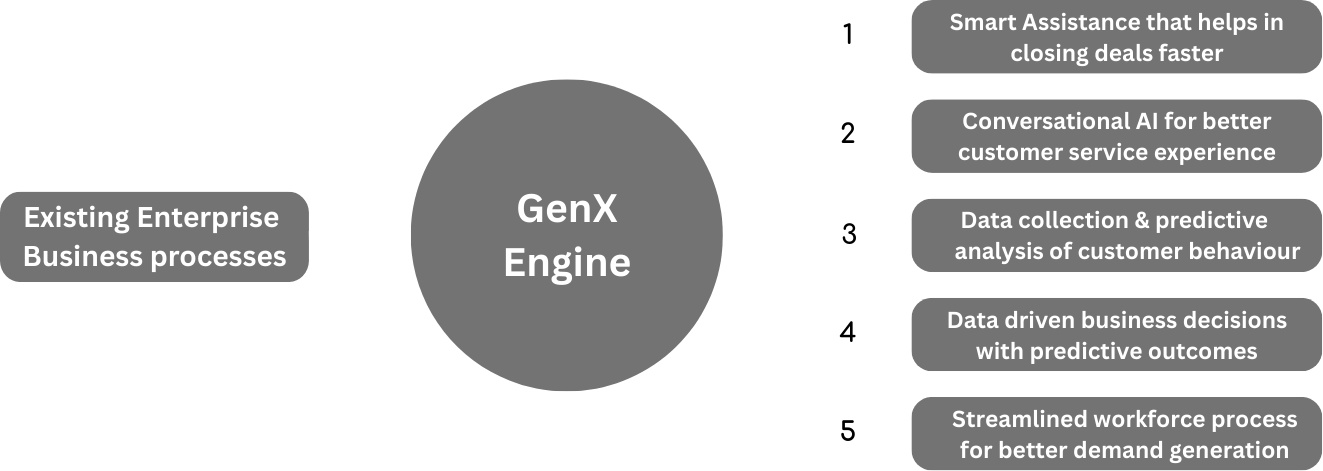
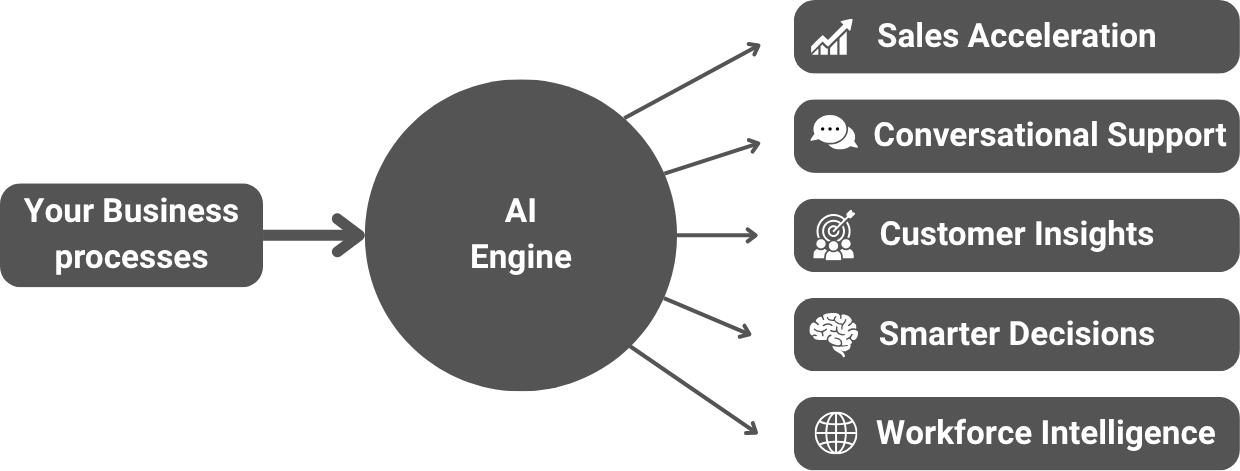
Footer and other changes

diff --git a/index.html b/index.html
@@ -58,40 +58,21 @@
     <main class="p-6">
         <!-- Hero Section -->
         <section class="hero-section-card">
-            <div class="hero-flex-wrapper flex flex-col md:flex-row items-center justify-between h-full w-full gap-8">
-                <div class="hero-content flex-1 flex flex-col items-end justify-center text-right w-full md:w-1/2">
+            <div class="hero-flex-wrapper flex flex-col md:flex-row items-center justify-center h-full w-full gap-8 mt-24">
+                <div class="hero-content flex-1 flex flex-col items-center justify-center text-center w-full md:w-1/2">
                     <h2 class="text-4xl font-bold text-hover-effect mb-4">
                         Accelerating AI Journey
                     </h2>
                     <p class="text-lg text-hover-effect mb-6">
                         Fine-tune, deploy, and monitor LLMs for custom AI workflows.
                     </p>
-                    <div class="flex flex-col sm:flex-row gap-4 w-full justify-end items-end">
-                        <!-- <a href="#features" class="bg-blue-600 text-white px-6 py-3 rounded-lg shadow hover:bg-blue-700 text-center">
-                            Explore Features
-                        </a> -->
-                        <!-- <a href="#cta" class="bg-gray-800 text-white px-6 py-3 rounded-lg shadow hover:bg-gray-900 text-center">
-                            Early Access
-                        </a> -->
+                    <div class="flex flex-col sm:flex-row gap-4 w-full justify-center items-center">
                         <a href="#features" class="bg-blue-700 text-white px-6 py-3 rounded-lg shadow hover:bg-blue-900">
                             Explore Features
                         </a>
                         <a href="#cta" class="ml-4 bg-gray-800 text-white px-6 py-3 rounded-lg shadow hover:bg-gray-900">
                             Early Access
                         </a>
-                    </div>
-                </div>
-                <div class="hero-video-wrapper flex-1 flex items-center justify-center w-full md:w-1/2 mt-8 md:mt-0">
-                    <!-- <video class="hero-video-gradient-border" src="assets/videos/hero_video.mp4" autoplay loop muted playsinline style="width: 100%; max-width: 520px; min-width: 320px; aspect-ratio: 16/9; border-radius: 1rem; display: block;"></video> -->
-                    <div class="hero-video-wrapper flex-1 flex items-center justify-center w-full md:w-1/2 mt-8 md:mt-0">
-                        <video
-                            src="assets/videos/hero_video.mp4"
-                            class="hero-video-gradient-border"
-                            autoplay
-                            loop
-                            muted
-                            playsinline
-                        ></video>
                     </div>
                 </div>
             </div>

diff --git a/styles/combined-styles.css b/styles/combined-styles.css
@@ -1098,10 +1098,11 @@ border-radius: 1rem;
 }
 
 .footer-logo {
-  width: 25%;
+  width: 480px;
+  max-width: 100%;
   height: auto;
-  /* margin-bottom: 1rem; */
-  flex-shrink: 0;
+  display: block;
+  margin-right: 2.5rem;
 }
 
 .footer-links {
